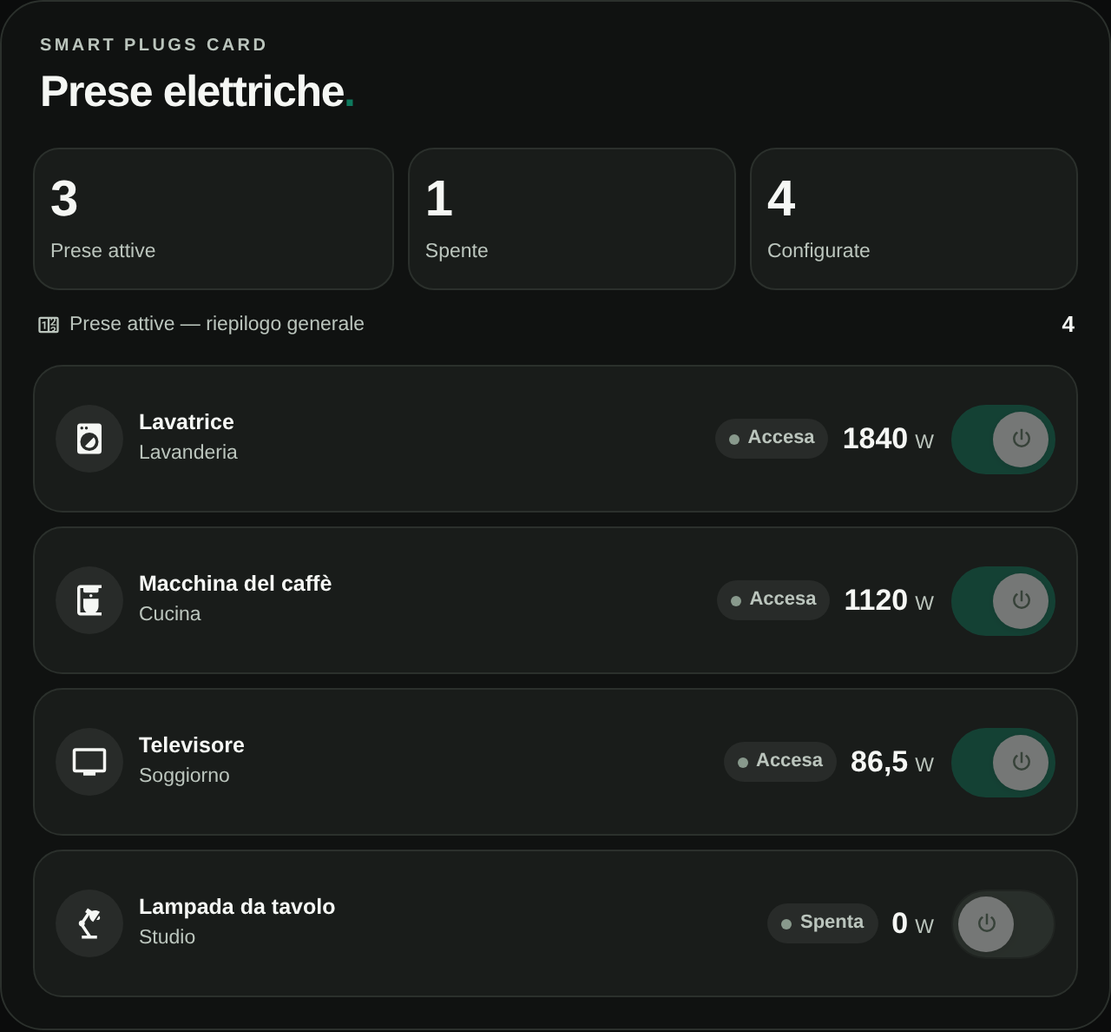
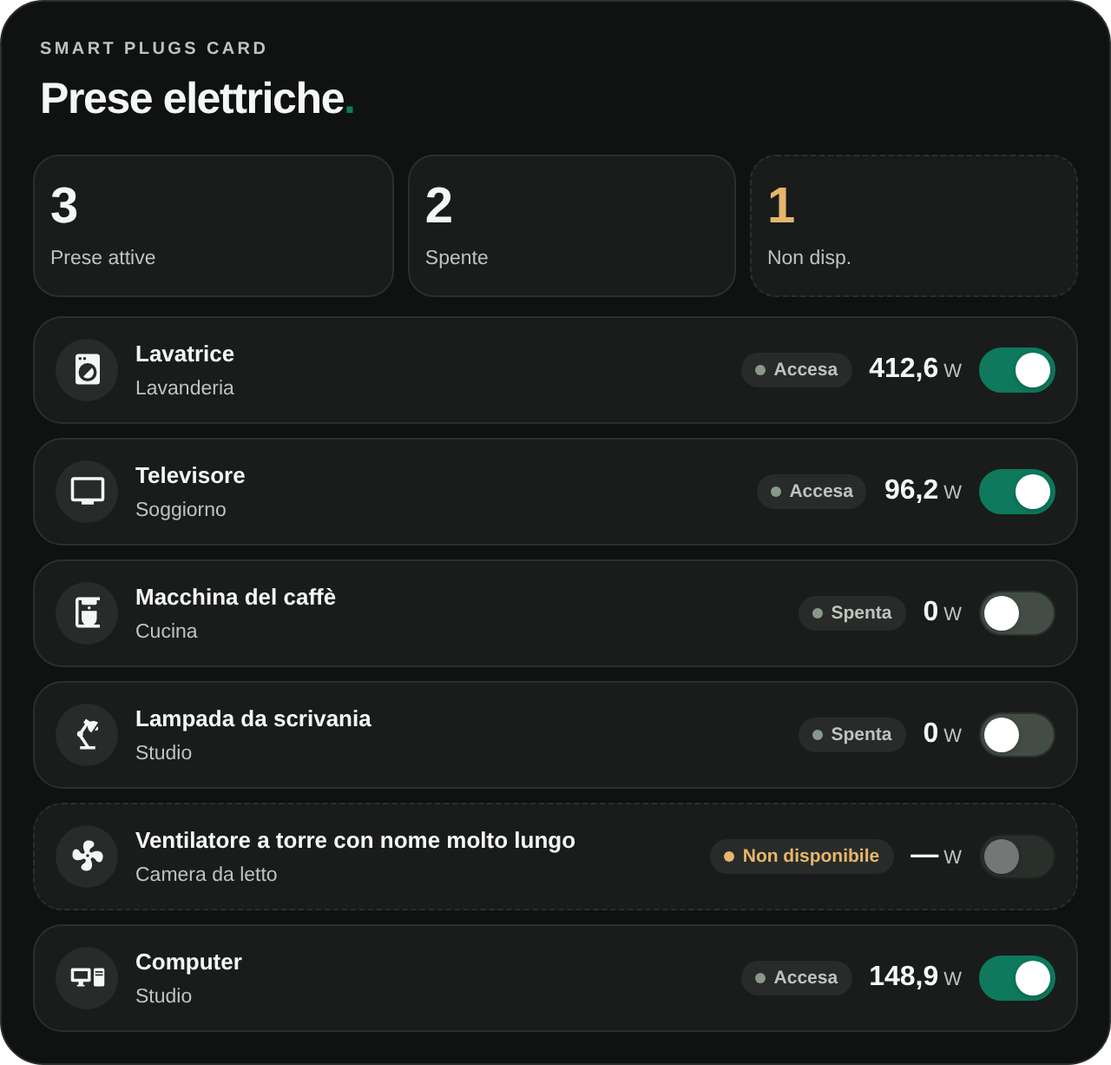
Redesign card, remove summary sensor and energy reading

diff --git a/dist/smart-plugs-card.js b/dist/smart-plugs-card.js
@@ -10,11 +10,11 @@ const SP_DEFAULTS = Object.freeze({
   title: 'Prese elettriche', eyebrow: 'SMART PLUGS CARD',
   show_title: true, show_eyebrow: true,
   theme_mode: 'auto', layout: 'grid',
-  show_power: true, show_energy: false,
-  active_sensor: '', controls_enabled: false, plugs: [],
+  show_power: true,
+  controls_enabled: false, plugs: [],
 });
-const SP_DOMAINS = Object.freeze({entity: 'switch', power_entity: 'sensor', energy_entity: 'sensor'});
-const SP_CLASSES = Object.freeze({power_entity: 'power', energy_entity: 'energy'});
+const SP_DOMAINS = Object.freeze({entity: 'switch', power_entity: 'sensor'});
+const SP_CLASSES = Object.freeze({power_entity: 'power'});
 const SP_ICONS = Object.freeze([
   ['mdi:power-socket-eu', 'Presa elettrica'],
   ['mdi:washing-machine', 'Lavatrice'],
@@ -41,11 +41,11 @@ function spPlug(raw={}) {
     icon: spIcon(r.icon),
     entity: spEntity(r.entity,'switch'),
     power_entity: spEntity(r.power_entity,'sensor'),
-    energy_entity: spEntity(r.energy_entity,'sensor'),
   };
 }
 function spConfig(raw={}) {
   const r=raw && typeof raw==='object' && !Array.isArray(raw) ? raw : {};
+  const {active_sensor:_removed,...legacyless}=r; // legacy option dropped: ignored and cleaned on the next save
   const unique=new Set(); const plugs=[];
   for(const value of Array.isArray(r.plugs)?r.plugs:[]) {
     const p=spPlug(value);
@@ -53,14 +53,13 @@ function spConfig(raw={}) {
     plugs.push(p); if(p.entity) unique.add(p.entity);
   }
   return {
-    ...r, type: SP_TYPE,
+    ...legacyless, type: SP_TYPE,
     title:spText(r.title??SP_DEFAULTS.title,60),
     eyebrow:spText(r.eyebrow??SP_DEFAULTS.eyebrow,60),
     show_title:r.show_title!==false, show_eyebrow:r.show_eyebrow!==false,
     theme_mode:['auto','light','dark'].includes(r.theme_mode)?r.theme_mode:'auto',
     layout:['grid','list'].includes(r.layout)?r.layout:'grid',
-    show_power:r.show_power!==false, show_energy:r.show_energy===true,
-    active_sensor:spEntity(r.active_sensor,'sensor'),
+    show_power:r.show_power!==false,
     controls_enabled:r.controls_enabled===true,
     plugs,
   };
@@ -87,11 +86,6 @@ function spCount(plugs, states) {
   for(const plug of plugs.filter(p=>p.entity)){const state=spState(states?.[plug.entity]); if(state===true)on++; else if(state===false)off++; else other++;}
   return {on,off,other,total:plugs.filter(p=>p.entity).length};
 }
-function spExternalCount(entity) {
-  if(!entity || ['unknown','unavailable',''].includes(entity.state))return null;
-  const n=Number(entity.state);
-  return Number.isSafeInteger(n)&&n>=0?n:null;
-}
 function spMdi(name) {return `<ha-icon icon="${spEsc(name)}" aria-hidden="true"></ha-icon>`;}
 const SP_CSS=`
 :host{display:block;box-sizing:border-box;width:100%;max-width:100%;min-width:0;font-family:var(--ha-font-family-body,Roboto,Arial,sans-serif);font-size:var(--ha-font-size-m,14px)}
@@ -101,15 +95,16 @@ ha-icon{display:inline-flex;align-items:center;justify-content:center;vertical-a
 .sp-root.sp-dark{--sp-bg:#101211;--sp-tile:#191c1a;--sp-surface:#191c1a;--sp-line:#2b302c;--sp-fg:#f5f7f4;--sp-muted:#bbc5bd;--sp-accent:#0e795d;--sp-on-bg:#172a20;--sp-on-line:#285641;--sp-on-soft:#1d4a35;--sp-track:#434d45;--sp-off:#282b29;--sp-warn:#e6b66c;--sp-danger:#ff8888}
 .sp-dark .sp-orb{background:#282b29}.sp-dark .sp-plug.off{background:#191c1a}
 .sp-head{margin:2px 4px 17px}.sp-eyebrow{font-size:10px;letter-spacing:1.7px;font-weight:750;color:var(--sp-muted);margin-bottom:7px}.sp-title{font-size:25px;line-height:1.14;font-weight:780;letter-spacing:-.7px;overflow-wrap:anywhere}.sp-title span{color:var(--sp-accent);font-weight:800}
+/* Summary tiles: unchanged look. The third tile ("Non disp.") is always present, so the row never changes size. */
 .sp-summary{display:grid;grid-template-columns:1.1fr 1fr 1fr;gap:8px;margin-bottom:11px}
 .sp-summary-cell{min-width:0;background:var(--sp-surface);border:1px solid var(--sp-line);border-radius:15px;padding:13px 9px}
-.sp-summary-cell.major{background:var(--sp-on-bg);border-color:var(--sp-on-line)}
-.sp-summary-cell strong{display:block;font-size:29px;letter-spacing:-.7px;font-weight:650;line-height:1.15;font-variant-numeric:tabular-nums}.sp-summary-cell.major strong{color:var(--sp-accent)}
+.sp-summary-cell.major{background:var(--sp-on-bg);border-color:var(--sp-on-line)}.sp-summary-cell.warn{border-style:dashed}
+.sp-summary-cell strong{display:block;font-size:29px;letter-spacing:-.7px;font-weight:650;line-height:1.15;font-variant-numeric:tabular-nums}.sp-summary-cell.major strong{color:var(--sp-accent)}.sp-summary-cell.warn strong{color:var(--sp-warn)}
 .sp-summary-cell span{display:block;font-size:11.5px;line-height:1.4;color:var(--sp-muted);font-weight:400;margin-top:5px;overflow-wrap:break-word}
-.sp-sensorline{color:var(--sp-muted);margin:0 2px 14px;font-size:11.5px;line-height:1.4;display:flex;align-items:center;gap:5px;min-width:0}.sp-sensorline ha-icon{width:14px;height:14px;--mdc-icon-size:14px}.sp-sensorline span{min-width:0;overflow-wrap:anywhere}.sp-sensorline strong{flex:none;margin-left:auto;color:var(--sp-fg);font-size:13px;font-weight:600;font-variant-numeric:tabular-nums}
 .sp-grid-host{container:sp-grid/inline-size;min-width:0}
-.sp-grid{display:grid;grid-template-columns:repeat(2,minmax(0,1fr));gap:10px}
-.sp-plug{min-width:0;border:1px solid var(--sp-line);background:var(--sp-tile);border-radius:17px;min-height:153px;padding:13px 12px;display:flex;flex-direction:column}
+.sp-grid{display:grid;grid-template-columns:repeat(2,minmax(0,1fr));gap:9px}
+/* Plug tile: icon + switch on the first row, full-width name below, state + reading pinned to the bottom. */
+.sp-plug{min-width:0;border:1px solid var(--sp-line);background:var(--sp-tile);border-radius:17px;min-height:112px;padding:11px 11px 12px;display:grid;grid-template-columns:minmax(0,1fr) auto;grid-template-rows:auto auto 1fr;grid-template-areas:"orb toggle" "names names" "meta meta";gap:8px 6px;align-items:start}
 .sp-plug.on{background:var(--sp-on-bg);border-color:var(--sp-on-line)}.sp-plug.unknown{border-style:dashed}
 /* Edera Graphite Dark: active tiles remain neutral; only their switches turn green.
    Edera Light intentionally retains its approved green active-tile wash. */
@@ -120,20 +115,28 @@ ha-icon{display:inline-flex;align-items:center;justify-content:center;vertical-a
 .sp-root.sp-dark .sp-summary-cell.major{background:var(--sp-surface);border-color:var(--sp-line)}
 .sp-root.sp-dark .sp-summary-cell.major strong{color:var(--sp-fg)}
 
-.sp-plug-head{display:flex;align-items:center;gap:9px;min-width:0}.sp-orb{width:39px;height:39px;flex:none;display:grid;place-items:center;background:var(--sp-bg);color:var(--sp-fg);border-radius:50%}.sp-plug.on .sp-orb{background:var(--sp-on-soft);color:var(--sp-accent)}
-.sp-names{min-width:0;flex:1}.sp-names strong{display:block;font-size:12.5px;font-weight:600;white-space:nowrap;overflow:hidden;text-overflow:ellipsis}.sp-names small{display:block;color:var(--sp-muted);font-size:11.5px;line-height:1.4;margin-top:3px;white-space:nowrap;overflow:hidden;text-overflow:ellipsis}
-.sp-plug-bottom{display:flex;align-items:end;justify-content:space-between;gap:8px;margin-top:auto;padding-top:14px}.sp-data{min-width:0}.sp-state{display:inline-flex;align-items:center;gap:5px;border-radius:100px;padding:5px 8px;background:var(--sp-off);color:var(--sp-muted);font-size:11px;font-weight:600;line-height:1.2}
+.sp-orb{grid-area:orb;justify-self:start;width:36px;height:36px;display:grid;place-items:center;background:var(--sp-bg);color:var(--sp-fg);border-radius:50%}.sp-plug.on .sp-orb{background:var(--sp-on-soft);color:var(--sp-accent)}
+.sp-names{grid-area:names;min-width:0}.sp-names strong{display:block;font-size:13px;font-weight:600;white-space:nowrap;overflow:hidden;text-overflow:ellipsis}.sp-names small{display:block;color:var(--sp-muted);font-size:11.5px;line-height:1.4;margin-top:2px;white-space:nowrap;overflow:hidden;text-overflow:ellipsis}
+.sp-meta{grid-area:meta;align-self:end;display:flex;flex-wrap:wrap;align-items:center;justify-content:space-between;gap:6px 8px;min-width:0}
+.sp-state{display:inline-flex;align-items:center;gap:5px;border-radius:100px;padding:4px 8px;background:var(--sp-off);color:var(--sp-muted);font-size:10.5px;font-weight:600;line-height:1.2}
 .sp-dot{width:6px;height:6px;border-radius:50%;background:#88998c}.sp-plug.on .sp-state{background:var(--sp-on-soft);color:var(--sp-accent)}.sp-plug.on .sp-dot{background:var(--sp-accent)}.sp-plug.unknown .sp-state{color:var(--sp-warn)}.sp-plug.unknown .sp-dot{background:var(--sp-warn)}
-.sp-reading{display:flex;align-items:baseline;gap:4px;margin-top:9px;min-height:23px}.sp-reading strong{font-weight:600;font-size:21px;letter-spacing:0;line-height:1.15;font-variant-numeric:tabular-nums}.sp-reading span{font-size:11.5px;color:var(--sp-muted);font-weight:400}.sp-energy{font-size:11.5px;color:var(--sp-muted);margin-top:4px;line-height:1.4}
-.sp-toggle{background:var(--sp-track);height:40px;width:60px;flex:none;border-radius:100px;border:1px solid var(--sp-line);padding:3px;display:flex;align-items:center;justify-content:flex-start}.sp-toggle[aria-checked=true]{background:var(--sp-accent);border-color:var(--sp-accent);justify-content:flex-end}.sp-toggle:disabled,.sp-toggle[aria-disabled=true]{opacity:.40}
-.sp-thumb{width:32px;height:32px;display:grid;place-items:center;background:#fff;color:#657b68;border-radius:50%;box-shadow:0 1px 4px #0002}.sp-thumb ha-icon{width:15px;height:15px;--mdc-icon-size:15px}
-.sp-list{grid-template-columns:1fr;gap:8px}.sp-list .sp-plug{min-height:85px;display:grid;grid-template-columns:minmax(0,1fr) auto;gap:7px 12px;align-items:center}.sp-list .sp-plug-head{grid-column:1;grid-row:1}.sp-list .sp-plug-bottom{grid-column:2;grid-row:1;margin:0;padding:0;gap:10px;align-items:center}.sp-list .sp-data{display:flex;gap:8px;align-items:center;flex-wrap:wrap;justify-content:flex-end}.sp-list .sp-reading{margin:0;min-height:0}.sp-list .sp-reading strong{font-size:17px}.sp-list .sp-energy{display:none}
+.sp-reading{display:flex;align-items:baseline;gap:3px;min-height:0}.sp-reading strong{font-weight:600;font-size:18px;line-height:1.1;font-variant-numeric:tabular-nums}.sp-reading span{font-size:11px;color:var(--sp-muted);font-weight:400}
+/* Standard switch (compact): 44x26 visible, no icon; touch area extended to 44px with a pseudo-element. */
+.sp-toggle{grid-area:toggle;position:relative;background:var(--sp-track);height:26px;width:44px;flex:none;border-radius:100px;border:1px solid var(--sp-line);padding:2px;display:flex;align-items:center;justify-content:flex-start}
+.sp-toggle:before{content:"";position:absolute;inset:-9px -4px}
+.sp-toggle[aria-checked=true]{background:var(--sp-accent);border-color:var(--sp-accent)}.sp-toggle:disabled,.sp-toggle[aria-disabled=true]{opacity:.40}
+.sp-thumb{width:20px;height:20px;background:#fff;border-radius:50%;box-shadow:0 1px 3px #0003;transition:transform .18s ease}.sp-toggle[aria-checked=true] .sp-thumb{transform:translateX(18px)}
+.sp-list{grid-template-columns:1fr;gap:8px}.sp-list .sp-plug{min-height:62px;grid-template-columns:auto minmax(0,1fr) auto auto;grid-template-rows:auto;grid-template-areas:"orb names meta toggle";gap:10px;align-items:center;padding:10px 12px}.sp-list .sp-meta{align-self:center;justify-content:flex-end;flex-wrap:nowrap;gap:10px}.sp-list .sp-reading strong{font-size:16px}
 .sp-note[hidden],.sp-warning[hidden]{display:none}.sp-empty{padding:22px 12px;border:1px dashed var(--sp-line);border-radius:14px;font-size:12px;color:var(--sp-muted);text-align:center}.sp-warning{font-size:11px;color:var(--sp-danger);margin:10px 3px 0;line-height:1.45;overflow-wrap:anywhere}.sp-note{font-size:10px;color:var(--sp-muted);margin:9px 3px 0}
 .sp-toggle:focus-visible{outline:2px solid var(--sp-accent);outline-offset:3px}
-@container sp-grid (max-width:360px){.sp-grid:not(.sp-list){grid-template-columns:repeat(2,minmax(0,1fr));gap:8px}.sp-grid:not(.sp-list) .sp-plug{min-height:180px;padding:10px 8px}.sp-grid:not(.sp-list) .sp-plug-head{gap:6px}.sp-grid:not(.sp-list) .sp-orb{width:32px;height:32px}.sp-grid:not(.sp-list) .sp-orb ha-icon{--mdc-icon-size:18px;width:18px;height:18px}.sp-grid:not(.sp-list) .sp-names strong{font-size:11.5px}.sp-grid:not(.sp-list) .sp-names small{font-size:10.5px}.sp-grid:not(.sp-list) .sp-plug-bottom{flex-direction:column;align-items:stretch;gap:8px;padding-top:10px}.sp-grid:not(.sp-list) .sp-data{max-width:100%}.sp-grid:not(.sp-list) .sp-toggle{align-self:flex-end}.sp-grid:not(.sp-list) .sp-reading strong{font-size:19px}.sp-grid:not(.sp-list) .sp-state{font-size:10px;padding:5px 6px}.sp-grid:not(.sp-list) .sp-energy{font-size:10px;overflow-wrap:anywhere}.sp-list .sp-plug{grid-template-columns:1fr}.sp-list .sp-plug-head{grid-column:1;grid-row:1}.sp-list .sp-plug-bottom{grid-column:1;grid-row:2;width:100%;justify-content:space-between}.sp-list .sp-data{justify-content:flex-start}}
-/* Prevent the optional sensor summary from changing card height when its
-   value alternates between a count and the longer "Non disponibile" label. */
-@container sp-card (max-width:360px){.sp-sensorline{min-height:33px}}
+/* Tablet / desktop: more columns when the card is wide (the width of the card matters, not the screen). */
+@container sp-grid (min-width:560px){.sp-grid:not(.sp-list){grid-template-columns:repeat(3,minmax(0,1fr));gap:10px}.sp-plug{min-height:118px;padding:12px 13px 13px}}
+@container sp-grid (min-width:820px){.sp-grid:not(.sp-list){grid-template-columns:repeat(4,minmax(0,1fr))}.sp-list{grid-template-columns:repeat(2,minmax(0,1fr))}}
+@container sp-card (min-width:560px){.sp-summary{max-width:620px}}
+/* Smartphones */
+@container sp-grid (max-width:360px){.sp-plug{padding:10px 10px 11px;gap:7px 5px;min-height:104px}.sp-orb{width:32px;height:32px}.sp-orb ha-icon{--mdc-icon-size:18px;width:18px;height:18px}.sp-names strong{font-size:12px}.sp-names small{font-size:10.5px}.sp-state{font-size:10px;padding:4px 7px}.sp-reading strong{font-size:17px}.sp-list .sp-plug{grid-template-columns:auto minmax(0,1fr) auto;grid-template-areas:"orb names toggle" "meta meta meta";gap:8px 10px}.sp-list .sp-meta{justify-content:flex-start}}
+/* Very narrow phones (320-360 px cards): state and reading always stack, so every tile keeps the same height. */
+@container sp-grid (max-width:330px){.sp-meta{flex-direction:column;align-items:flex-start;justify-content:flex-end;gap:5px}.sp-list .sp-meta{flex-direction:row;align-items:center;justify-content:flex-start;gap:10px}}
 @container sp-card (max-width:300px){.sp-root{padding:12px}.sp-summary-cell{padding:10px 7px}.sp-summary-cell strong{font-size:25px}.sp-summary-cell span{font-size:10.5px}}
 @media(max-width:420px){.sp-title{font-size:23px}.sp-summary-cell strong{font-size:25px}}
 @container sp-card (max-width:380px){.sp-title{font-size:23px}.sp-summary-cell strong{font-size:25px}}
@@ -163,13 +166,11 @@ class SmartPlugsCard extends HTMLElement {
     const name=p.name||spText(entity?.attributes?.friendly_name,60)||`Presa ${index+1}`;
     const icon=p.icon || spIcon(entity?.attributes?.icon);
     const watt=spReading(this._entity(p.power_entity),'power');
-    const energy=spReading(this._entity(p.energy_entity),'energy');
     const watts=this._config.show_power ? `<div class="sp-reading"><strong data-watt>${watt===null?'—':spEsc(new Intl.NumberFormat('it-IT',{maximumFractionDigits:1}).format(watt.value))}</strong><span>W</span></div>` : '';
-    const kwh=this._config.show_energy && p.energy_entity ? `<div class="sp-energy">Energia · <span data-energy>${energy===null?'Non disponibile':spEsc(new Intl.NumberFormat('it-IT',{maximumFractionDigits:2}).format(energy.value))+' kWh'}</span></div>` : '';
     const label=state===null?'Non disponibile':on?'Accesa':'Spenta';
     const disabled=!this._config.controls_enabled || state===null || typeof this._hass?.callService!=='function';
     const pending=this._busy.has(p.entity);
-    return `<article class="sp-plug ${state===null?'unknown':on?'on':'off'}" data-plug-id="${spEsc(p.entity)}"><div class="sp-plug-head"><span class="sp-orb">${spMdi(icon)}</span><span class="sp-names"><strong class="sp-name" title="${spEsc(name)}">${spEsc(name)}</strong>${p.room?`<small title="${spEsc(p.room)}">${spEsc(p.room)}</small>`:''}</span></div><div class="sp-plug-bottom"><div class="sp-data"><span class="sp-state"><span class="sp-dot"></span><span data-state-text>${label}</span></span>${watts}${kwh}</div><button type="button" class="sp-toggle" role="switch" aria-checked="${on}" aria-disabled="${disabled||pending}" data-switch="${spEsc(p.entity)}" aria-label="${spEsc(on?'Spegni':'Accendi')} ${spEsc(name)}" ${disabled?'disabled':''} title="${this._config.controls_enabled?'Comando presa':'Abilita i comandi nella configurazione'}"><span class="sp-thumb">${spMdi('mdi:power')}</span></button></div></article>`;
+    return `<article class="sp-plug ${state===null?'unknown':on?'on':'off'}" data-plug-id="${spEsc(p.entity)}"><span class="sp-orb">${spMdi(icon)}</span><span class="sp-names"><strong class="sp-name" title="${spEsc(name)}">${spEsc(name)}</strong>${p.room?`<small title="${spEsc(p.room)}">${spEsc(p.room)}</small>`:''}</span><button type="button" class="sp-toggle" role="switch" aria-checked="${on}" aria-disabled="${disabled||pending}" data-switch="${spEsc(p.entity)}" aria-label="${spEsc(on?'Spegni':'Accendi')} ${spEsc(name)}" ${disabled?'disabled':''} title="${this._config.controls_enabled?'Comando presa':'Abilita i comandi nella configurazione'}"><span class="sp-thumb"></span></button><div class="sp-meta"><span class="sp-state"><span class="sp-dot"></span><span data-state-text>${label}</span></span>${watts}</div></article>`;
   }
   // Changes to configuration or theme require a structural render.
   // Entity updates and switch actions update existing nodes without replacing
@@ -179,11 +180,10 @@ class SmartPlugsCard extends HTMLElement {
     const root=this.shadowRoot.querySelector('.sp-root');if(!root)return;
     const c=this._config, plugs=c.plugs.filter(p=>p.entity);
     const count=spCount(plugs,this._hass?.states);
-    for(const [key,value] of Object.entries({on:count.on,off:count.off,total:count.total})){
+    for(const [key,value] of Object.entries({on:count.on,off:count.off,other:count.other})){
       const el=root.querySelector(`[data-count="${key}"]`);if(el && el.textContent!==String(value))el.textContent=String(value);
     }
-    const external=root.querySelector('[data-external-value]');
-    if(external){const value=spExternalCount(this._entity(c.active_sensor));external.textContent=value===null?'Non disponibile':String(value);}
+    const otherCell=root.querySelector('[data-cell="other"]');if(otherCell)otherCell.classList.toggle('warn',count.other>0);
     const rowMap=new Map([...root.querySelectorAll('[data-plug-id]')].map(el=>[el.dataset.plugId,el]));
     for(const [index,p] of plugs.entries()){
       const row=rowMap.get(p.entity);
@@ -194,7 +194,6 @@ class SmartPlugsCard extends HTMLElement {
       const name=p.name||spText(this._entity(p.entity)?.attributes?.friendly_name,60)||`Presa ${index+1}`;
       const nameEl=row.querySelector('.sp-name');if(nameEl){nameEl.textContent=name;nameEl.title=name;}
       const wattEl=row.querySelector('[data-watt]');if(wattEl){const data=spReading(this._entity(p.power_entity),'power');wattEl.textContent=data===null?'—':new Intl.NumberFormat('it-IT',{maximumFractionDigits:1}).format(data.value);}
-      const energyEl=row.querySelector('[data-energy]');if(energyEl){const data=spReading(this._entity(p.energy_entity),'energy');energyEl.textContent=data===null?'Non disponibile':new Intl.NumberFormat('it-IT',{maximumFractionDigits:2}).format(data.value)+' kWh';}
       const btn=row.querySelector('[data-switch]');if(btn){
         const blocked=!c.controls_enabled||state===null||typeof this._hass?.callService!=='function';
         btn.disabled=blocked;btn.setAttribute('aria-disabled',String(blocked||this._busy.has(p.entity)));
@@ -213,7 +212,7 @@ class SmartPlugsCard extends HTMLElement {
     const c=this._config,availablePlugs=c.plugs.filter(p=>p.entity),count=spCount(availablePlugs,this._hass?.states);
     const heading=c.show_eyebrow&&c.eyebrow?`<div class="sp-eyebrow">${spEsc(c.eyebrow)}</div>`:'';
     const title=c.show_title&&c.title?`<div class="sp-title">${spEsc(c.title)}<span>.</span></div>`:'';
-    this.shadowRoot.innerHTML=`<style>${SP_CSS}</style><div class="sp-root ${this._dark()?'sp-dark':''}">${heading||title?`<header class="sp-head">${heading}${title}</header>`:''}<div class="sp-summary"><div class="sp-summary-cell major"><strong data-count="on">${count.on}</strong><span>Prese attive</span></div><div class="sp-summary-cell"><strong data-count="off">${count.off}</strong><span>Spente</span></div><div class="sp-summary-cell"><strong data-count="total">${count.total}</strong><span>Configurate</span></div></div>${c.active_sensor?`<div class="sp-sensorline">${spMdi('mdi:counter')}<span>Prese attive — riepilogo generale</span><strong data-external-value></strong></div>`:''}<div class="sp-grid-host">${availablePlugs.length?`<div class="sp-grid ${c.layout==='list'?'sp-list':''}">${availablePlugs.map((p,i)=>this._row(p,i)).join('')}</div>`:'<div class="sp-empty">Aggiungi una presa dall’editor visuale della card.</div>'}</div><div class="sp-warning" data-error-note role="alert" hidden></div></div>`;
+    this.shadowRoot.innerHTML=`<style>${SP_CSS}</style><div class="sp-root ${this._dark()?'sp-dark':''}">${heading||title?`<header class="sp-head">${heading}${title}</header>`:''}<div class="sp-summary"><div class="sp-summary-cell major"><strong data-count="on">${count.on}</strong><span>Prese attive</span></div><div class="sp-summary-cell"><strong data-count="off">${count.off}</strong><span>Spente</span></div><div class="sp-summary-cell${count.other?' warn':''}" data-cell="other"><strong data-count="other">${count.other}</strong><span>Non disp.</span></div></div><div class="sp-grid-host">${availablePlugs.length?`<div class="sp-grid ${c.layout==='list'?'sp-list':''}">${availablePlugs.map((p,i)=>this._row(p,i)).join('')}</div>`:'<div class="sp-empty">Aggiungi una presa dall’editor visuale della card.</div>'}</div><div class="sp-warning" data-error-note role="alert" hidden></div></div>`;
     this._structureSignature=structureKey;
     this._refreshLive();
   }
@@ -235,7 +234,7 @@ const SP_EDITOR_CSS=`
 .sp-heading{font-size:15px;font-weight:750;margin:0 0 8px}.sp-desc,.sp-help{font-size:12px;color:var(--secondary-text-color,#68776d);line-height:1.5}.sp-field{margin:13px 0;min-width:0}.sp-label{font-size:12px;font-weight:690;margin:0 0 7px;display:block}.sp-input{display:block;min-height:42px;width:100%;border:1px solid var(--divider-color,#cad6ca);background:var(--card-background-color,var(--secondary-background-color,#f7faf7));color:var(--primary-text-color,#19231c);border-radius:11px;padding:10px 12px}
 .sp-controlrow{display:flex;align-items:center;gap:8px;min-width:0}.sp-grow{flex:1;min-width:0}.sp-controls{display:flex;gap:5px;flex:none}.sp-btn{border:1px solid var(--divider-color,#cad6ca);background:var(--secondary-background-color,#eff3ef);color:var(--primary-text-color,#1a231d);padding:9px 12px;border-radius:12px;cursor:pointer}.sp-btn:disabled{opacity:.4}.sp-btn.primary{background:var(--primary-color,#0b7659);color:#fff;border-color:transparent}.sp-btn.iconbtn{padding:8px;display:grid;place-items:center;min-width:37px;height:37px}.sp-btn ha-icon{--mdc-icon-size:17px;width:17px;height:17px}
 .sp-entry{border:1px solid var(--divider-color,#dee6de);padding:11px 10px;border-radius:14px;margin:9px 0}.sp-entry-head{display:flex;align-items:center;gap:10px}.sp-entry-head span{flex:1;min-width:0;font-weight:680;white-space:nowrap;text-overflow:ellipsis;overflow:hidden;font-size:12px}.sp-entry-head small{color:var(--secondary-text-color,#697b70);font-weight:400;font-size:10px;display:block;margin-top:3px;white-space:nowrap;text-overflow:ellipsis;overflow:hidden}
-.sp-selectors{padding:9px 3px 0}.sp-selectors ha-selector{display:block;width:100%;--mdc-theme-primary:var(--primary-color,#0b7355)}.sp-tip{padding:11px;border-radius:13px;background:var(--secondary-background-color,#edf2ed);font-size:12px;line-height:1.45;color:var(--secondary-text-color,#667469);margin:14px 0}.sp-cbrow{display:flex;justify-content:space-between;align-items:center;gap:12px;border-bottom:1px solid var(--divider-color,#e0e8df);padding:12px 2px}.sp-cbrow strong{display:block;font-size:13px;font-weight:670}.sp-cbrow small{display:block;font-size:11px;color:var(--secondary-text-color,#647265);margin-top:4px}.sp-cbrow input{height:20px;width:20px;accent-color:var(--primary-color,#096e53);flex:none}.sp-error{color:var(--error-color,#bf3c3c);font-size:12px;margin-top:9px}
+.sp-selectors{padding:9px 3px 0}.sp-selectors ha-selector{display:block;width:100%;--mdc-theme-primary:var(--primary-color,#0b7355)}.sp-tip{padding:11px;border-radius:13px;background:var(--secondary-background-color,#edf2ed);font-size:12px;line-height:1.45;color:var(--secondary-text-color,#667469);margin:14px 0}.sp-cbrow{display:flex;justify-content:space-between;align-items:center;gap:12px;border-bottom:1px solid var(--divider-color,#e0e8df);padding:12px 2px}.sp-cbrow strong{display:block;font-size:13px;font-weight:670}.sp-cbrow small{display:block;font-size:11px;color:var(--secondary-text-color,#647265);margin-top:4px}.sp-cbrow input[type=checkbox]{appearance:none;-webkit-appearance:none;position:relative;flex:none;width:44px;height:26px;margin:0;border-radius:100px;border:1px solid var(--divider-color,#cfd8cf);background:var(--secondary-background-color,#d7e0d8);cursor:pointer;transition:background .18s}.sp-cbrow input[type=checkbox]:before{content:"";position:absolute;top:2px;left:2px;width:20px;height:20px;border-radius:50%;background:#fff;box-shadow:0 1px 3px #0003;transition:transform .18s}.sp-cbrow input[type=checkbox]:checked{background:var(--primary-color,#096e53);border-color:var(--primary-color,#096e53)}.sp-cbrow input[type=checkbox]:checked:before{transform:translateX(18px)}.sp-input:disabled{opacity:.5;cursor:not-allowed}@media(prefers-reduced-motion:reduce){.sp-cbrow input[type=checkbox],.sp-cbrow input[type=checkbox]:before{transition:none}}.sp-error{color:var(--error-color,#bf3c3c);font-size:12px;margin-top:9px}
 .sp-editor button:focus-visible,.sp-editor input:focus-visible,.sp-editor select:focus-visible{outline:2px solid var(--primary-color,#0b7355);outline-offset:2px}
 `;
 class SmartPlugsCardEditor extends HTMLElement {
@@ -259,7 +258,7 @@ class SmartPlugsCardEditor extends HTMLElement {
   _update(patch){this._config=spConfig({...this._config,...patch});this._error='';this._emit();this._render();}
   _updatePlug(index,patch){if(index<0||index>=this._config.plugs.length)return;const plugs=this._config.plugs.map((p,i)=>i===index?{...p,...patch}:p);this._update({plugs});}
   _field(label,content,help=''){return `<div class="sp-field"><label class="sp-label">${spEsc(label)}</label>${content}${help?`<p class="sp-help">${spEsc(help)}</p>`:''}</div>`;}
-  _input(key,label,value,index='global'){return this._field(label,`<input class="sp-input" data-index="${index}" data-key="${key}" type="text" maxlength="80" value="${spEsc(value)}"/>`);}
+  _input(key,label,value,index='global',disabled=false){return this._field(label,`<input class="sp-input" data-index="${index}" data-key="${key}" type="text" maxlength="80" value="${spEsc(value)}" ${disabled?'disabled':''}/>`);}
   _select(key,label,value,options){return this._field(label,`<select class="sp-input" data-index="global" data-key="${key}">${options.map(([v,t])=>`<option value="${spEsc(v)}" ${v===value?'selected':''}>${spEsc(t)}</option>`).join('')}</select>`);}
   _check(key,label,help){return `<label class="sp-cbrow"><span><strong>${spEsc(label)}</strong><small>${spEsc(help)}</small></span><input type="checkbox" data-index="global" data-key="${key}" ${this._config[key]?'checked':''}/></label>`;}
   _selector(index,key,label,help=''){
@@ -272,22 +271,20 @@ class SmartPlugsCardEditor extends HTMLElement {
     if(c.plugs.length){
       content+=`<div class="sp-field"><label class="sp-label" for="sp-chosen">Presa da configurare</label><select id="sp-chosen" class="sp-input" data-special="selected">${c.plugs.map((p,i)=>`<option value="${i}" ${i===this._selected?'selected':''}>${spEsc(p.name||p.entity||`Presa ${i+1}`)}</option>`).join('')}</select></div>`;
       const p=c.plugs[this._selected];
-      if(p){content+=`<section class="sp-entry">${this._input('name','Nome visualizzato',p.name,this._selected)}${this._input('room','Ambiente',p.room,this._selected)}${this._selector(this._selected,'entity','Presa da comandare (switch.*)','Ricerca limitata alle entità switch.*. Ad esempio switch.macchina_presa_esempio.')}${this._selector(this._selected,'power_entity','Potenza istantanea (sensor.*)','Solo sensori classificati power; W o kW.')}${this._selector(this._selected,'energy_entity','Energia consumata (sensor.*)','Solo sensori classificati energy; Wh, kWh o MWh.')}${this._selector(this._selected,'icon','Icona Home Assistant (MDI)')}<div class="sp-controls"><button type="button" class="sp-btn iconbtn" data-move="-1" ${this._selected===0?'disabled':''} title="Sposta su">${spMdi('mdi:arrow-up')}</button><button type="button" class="sp-btn iconbtn" data-move="1" ${this._selected===c.plugs.length-1?'disabled':''} title="Sposta giù">${spMdi('mdi:arrow-down')}</button><button type="button" class="sp-btn" data-delete="1">Rimuovi presa</button></div></section>`;}
+      if(p){content+=`<section class="sp-entry">${this._input('name','Nome visualizzato',p.name,this._selected)}${this._input('room','Ambiente',p.room,this._selected)}${this._selector(this._selected,'entity','Presa da comandare (switch.*)','Ricerca limitata alle entità switch.*. Ad esempio switch.macchina_presa_esempio.')}${this._selector(this._selected,'power_entity','Potenza istantanea (sensor.*)','Solo sensori classificati power; W o kW.')}${this._selector(this._selected,'icon','Icona Home Assistant (MDI)')}<div class="sp-controls"><button type="button" class="sp-btn iconbtn" data-move="-1" ${this._selected===0?'disabled':''} title="Sposta su">${spMdi('mdi:arrow-up')}</button><button type="button" class="sp-btn iconbtn" data-move="1" ${this._selected===c.plugs.length-1?'disabled':''} title="Sposta giù">${spMdi('mdi:arrow-down')}</button><button type="button" class="sp-btn" data-delete="1">Rimuovi presa</button></div></section>`;}
     }
     content+='<button type="button" class="sp-btn primary" data-add="1">+ Aggiungi presa</button>';
-    content+=this._selector('global','active_sensor','Sensore riepilogo opzionale (sensor.*)','Visualizzato separatamente: potrebbe contare prese esterne alla card.');
     if(this._error)content+=`<div class="sp-error" role="alert">${spEsc(this._error)}</div>`;
     return content;
   }
   _appearance(){const c=this._config;return '<div class="sp-heading">Aspetto Edera</div>'+
-    this._check('show_eyebrow','Mostra etichetta superiore','Nasconde o mostra SMART PLUGS CARD, senza cancellarne il testo.')+
-    this._input('eyebrow','Etichetta superiore',c.eyebrow)+
-    this._check('show_title','Mostra titolo principale','Nasconde o mostra Prese elettriche, senza cancellarne il testo.')+
-    this._input('title','Titolo principale',c.title)+
+    this._check('show_eyebrow','Mostra etichetta superiore','Nasconde o mostra l’etichetta superiore, senza cancellarne il testo.')+
+    this._input('eyebrow','Etichetta superiore',c.eyebrow,'global',!c.show_eyebrow)+
+    this._check('show_title','Mostra titolo principale','Nasconde o mostra il titolo principale, senza cancellarne il testo.')+
+    this._input('title','Titolo principale',c.title,'global',!c.show_title)+
     this._select('theme_mode','Tema',c.theme_mode,[['auto','Automatico (Home Assistant)'],['light','Edera Light'],['dark','Graphite Dark']])+
     this._select('layout','Disposizione',c.layout,[['grid','Griglia'],['list','Elenco compatto']])+
-    this._check('show_power','Mostra potenza (W)','Richiede un sensore di potenza configurato per ogni presa.')+
-    this._check('show_energy','Mostra energia (kWh)','Facoltativo: compare solo quando configurato un sensore di energia.');}
+    this._check('show_power','Mostra potenza (W)','Richiede un sensore di potenza configurato per ogni presa.');}
   _advanced(){return '<div class="sp-heading">Controlli delle prese</div><div class="sp-desc">Inizialmente la card mostra gli stati senza permettere azioni reali.</div>'+
     this._check('controls_enabled','Abilita comandi ON/OFF','Attiva le chiamate switch.turn_on / switch.turn_off sulle prese configurate.')+
     '<div class="sp-tip">Non utilizzare queste prese per controllare dispositivi con rischi di sicurezza (es. apparecchi che non devono riavviarsi automaticamente). La card non sostituisce i permessi di Home Assistant.</div>'+
@@ -299,7 +296,7 @@ class SmartPlugsCardEditor extends HTMLElement {
     this._mountSelectors();
   }
   _nativeOptions(index,key){
-    const entityKey=key==='entity'||key==='power_entity'||key==='energy_entity'||key==='active_sensor';
+    const entityKey=key==='entity'||key==='power_entity';
     if(key==='icon')return {icon:{}};
     if(!entityKey)return null;
     const domain=SP_DOMAINS[key]||'sensor';
@@ -371,4 +368,4 @@ if(typeof window!=='undefined'){
   window.customCards=window.customCards||[];
   if(!window.customCards.some(x=>x.type===SP_TAG))window.customCards.push({type:SP_TAG,name:'Smart Plugs Card',description:'Edera Smart Plugs: controlli ON/OFF, potenza e stato delle prese.',preview:true});
 }
-export {spConfig,spPlug,spState,spCount,spReading,spExternalCount};
+export {spConfig,spPlug,spState,spCount,spReading};

diff --git a/README.md b/README.md
@@ -9,7 +9,7 @@
 
 **Smart Plugs Card** is a custom dashboard card for Home Assistant that brings multiple smart plugs into a compact, responsive interface inspired by the Edera Light and Graphite Dark styles.
 
-It displays each configured plug's current state, provides optional on/off controls, and shows power and energy readings when compatible sensors are available. The card uses existing Home Assistant entities and services; it does not communicate directly with smart plugs or require a separate cloud account.
+It displays each configured plug's current state, provides optional on/off controls, and shows power readings when a compatible sensor is available. The card uses existing Home Assistant entities and services; it does not communicate directly with smart plugs or require a separate cloud account.
 
 ## Preview
 
@@ -26,14 +26,12 @@ It displays each configured plug's current state, provides optional on/off contr
 - **Multiple plugs:** Add, rename, reorder, and remove smart plugs using the visual editor.
 - **Individual states:** Distinguish on, off, and unknown/unavailable states.
 - **On/off controls:** Switch compatible `switch.*` entities on or off when real controls have been explicitly enabled.
-- **State summary:** Count the configured plugs that are on, off, or whose state is unavailable.
-- **Optional summary sensor:** Show an independent numeric `sensor.*` value, such as the number of active plugs. This value may cover devices outside the card.
+- **State summary:** Show how many configured plugs are on, off, or unavailable.
 - **Power monitoring:** Display instantaneous power in W when a compatible `sensor.*` entity is configured (`W` and `kW` supported).
-- **Optional energy reading:** Display energy in kWh when a compatible energy sensor is configured (`Wh`, `kWh`, and `MWh` supported).
 - **Visual configuration:** Native Home Assistant entity selectors when available, with an entity-list fallback.
-- **Edera appearance:** Automatic, Light, and Graphite Dark themes; a subtle green tile highlight for active plugs in Light mode, and neutral tiles with green switches in Dark mode; configurable Home Assistant MDI icons.
+- **Edera appearance:** Automatic, Light, and Graphite Dark themes; a subtle green tile highlight for active plugs in Light mode, and neutral tiles with green switches in Dark mode; compact iOS-style switches; configurable Home Assistant MDI icons.
 - **Optional headings:** Show or hide the upper label and main title independently.
-- **Responsive design:** Two-column grid on supported narrow dashboard layouts, including smartphones, with a separate compact list option.
+- **Responsive design:** Compact grid that adapts from two to four columns to the available card width, from smartphones to desktops, with a separate compact list option.
 - **No detail popups:** Switching and status information stay in the card itself.
 
 The available measurements and controls depend on the configured Home Assistant devices and integrations. Unknown or unavailable states are not interpreted as off.
@@ -78,11 +76,11 @@ If the `www` directory has just been created, Home Assistant may need a restart 
 
 After adding the card, use the editor sections:
 
-- **Plugs:** Add smart plugs, select their controllable `switch.*` entities, set display names and rooms, choose MDI icons, and optionally assign power/energy sensors. Configure an optional independent summary sensor.
-- **Appearance:** Show or hide either heading, change their text, choose Automatic/Light/Dark appearance, switch between grid and compact list, and show or hide W and kWh readings.
+- **Plugs:** Add smart plugs, select their controllable `switch.*` entities, set display names and rooms, choose MDI icons, and optionally assign a power sensor.
+- **Appearance:** Show or hide either heading, change their text, choose Automatic/Light/Dark appearance, switch between grid and compact list, and show or hide the W reading.
 - **Advanced:** Enable the real on/off controls. Controls are **disabled by default**.
 
-The entity pickers restrict plug controls to `switch.*` entities and measurement sensors to `sensor.*` entities with the relevant power or energy device class. The optional summary sensor is selected separately from the individual plug states.
+The entity pickers restrict plug controls to `switch.*` entities and power sensors to `sensor.*` entities with the power device class.
 
 ### Example YAML configuration
 
@@ -97,7 +95,6 @@ show_eyebrow: true
 theme_mode: auto
 layout: grid
 show_power: true
-show_energy: false
 controls_enabled: false
 plugs:
   - name: Washing machine
@@ -107,7 +104,7 @@ plugs:
     power_entity: sensor.example_washing_machine_power
 ```
 
-Replace the example entities with entities actually present in Home Assistant. An energy sensor or external active-plug count is optional.
+Replace the example entities with entities actually present in Home Assistant. The power sensor is optional.
 
 ### Main configuration options
 
@@ -117,31 +114,22 @@ Replace the example entities with entities actually present in Home Assistant. A
 | `show_title` / `show_eyebrow` | Show or hide the two headings independently. |
 | `theme_mode` | `auto`, `light`, or `dark`. |
 | `layout` | `grid` or `list`. |
-| `show_power` / `show_energy` | Show optional power and energy values. |
-| `active_sensor` | Optional numeric `sensor.*` count shown separately. |
+| `show_power` | Show the optional power value. |
 | `controls_enabled` | Enable real on/off commands; defaults to `false`. |
 | `plugs` | List of individually configured smart plugs. |
 
-Each entry in `plugs` supports `name`, `room`, `icon`, `entity`, `power_entity`, and `energy_entity`.
+Each entry in `plugs` supports `name`, `room`, `icon`, `entity`, and `power_entity`.
+
+The `active_sensor`, `show_energy`, and `energy_entity` options from earlier versions have been removed. Existing configurations that still contain them keep working; the options are ignored.
 
 ## Compatibility and Requirements
 
 - Home Assistant with support for custom JavaScript dashboard modules.
 - A `switch.*` entity for each plug to be controlled or monitored.
-- Optional compatible `sensor.*` entities for power, energy, or an independent count.
+- Optional compatible `sensor.*` entities for power.
 - HACS is needed only for installation through HACS.
 
 No specific minimum Home Assistant version has been independently verified. The card has no additional external JavaScript libraries, dedicated paid API, or subscription requirement. Individual plug integrations may use their manufacturers' cloud services.
-
-## Privacy and Security
-
-Smart Plugs Card reads configured Home Assistant entities and uses Home Assistant's existing service calls and user permissions. It does not implement telemetry, advertising, analytics, external JavaScript loading, or direct third-party requests.
-
-- Real commands are disabled by default and require explicit activation in the card editor.
-- Only valid configured `switch.*` entities are targeted for `switch.turn_on` and `switch.turn_off`.
-- Unknown and unavailable states disable the corresponding switch control.
-- The card does not provide separate authentication or override Home Assistant permissions.
-- Do not use remote switching for appliances where unexpected activation or loss of power could create a safety risk.
 
 ## Releases
 
